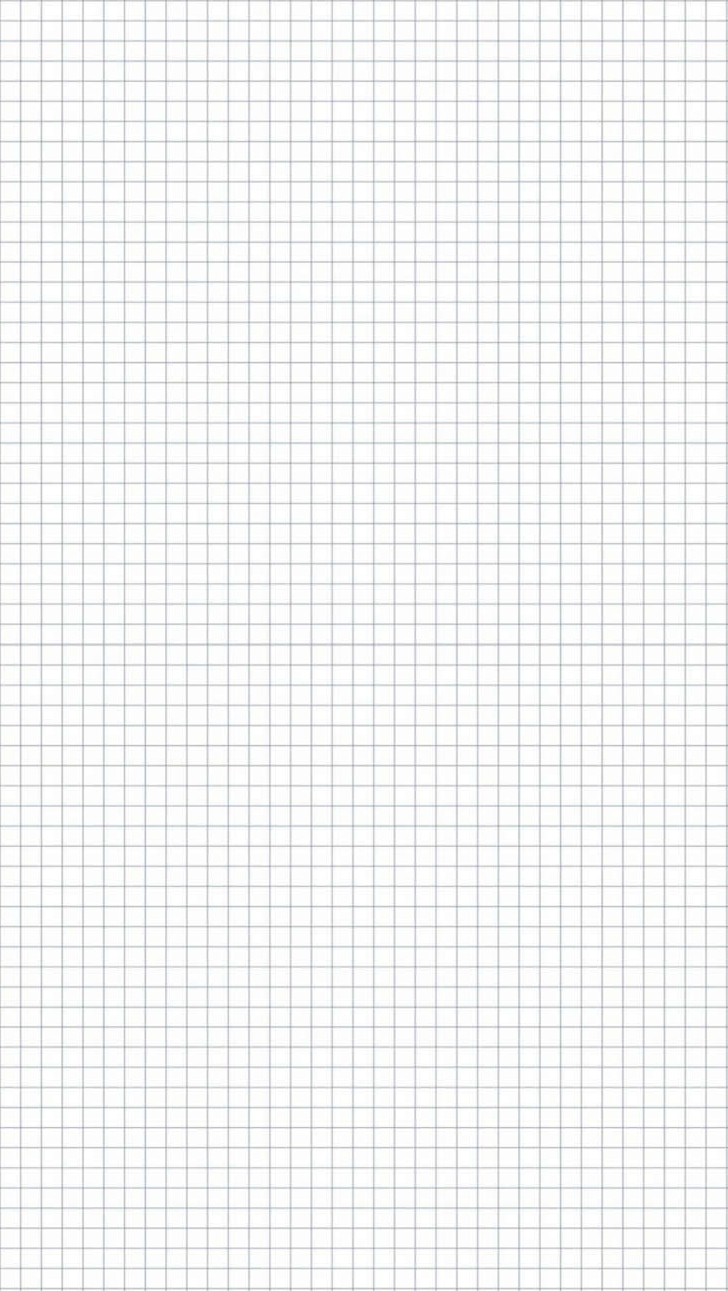
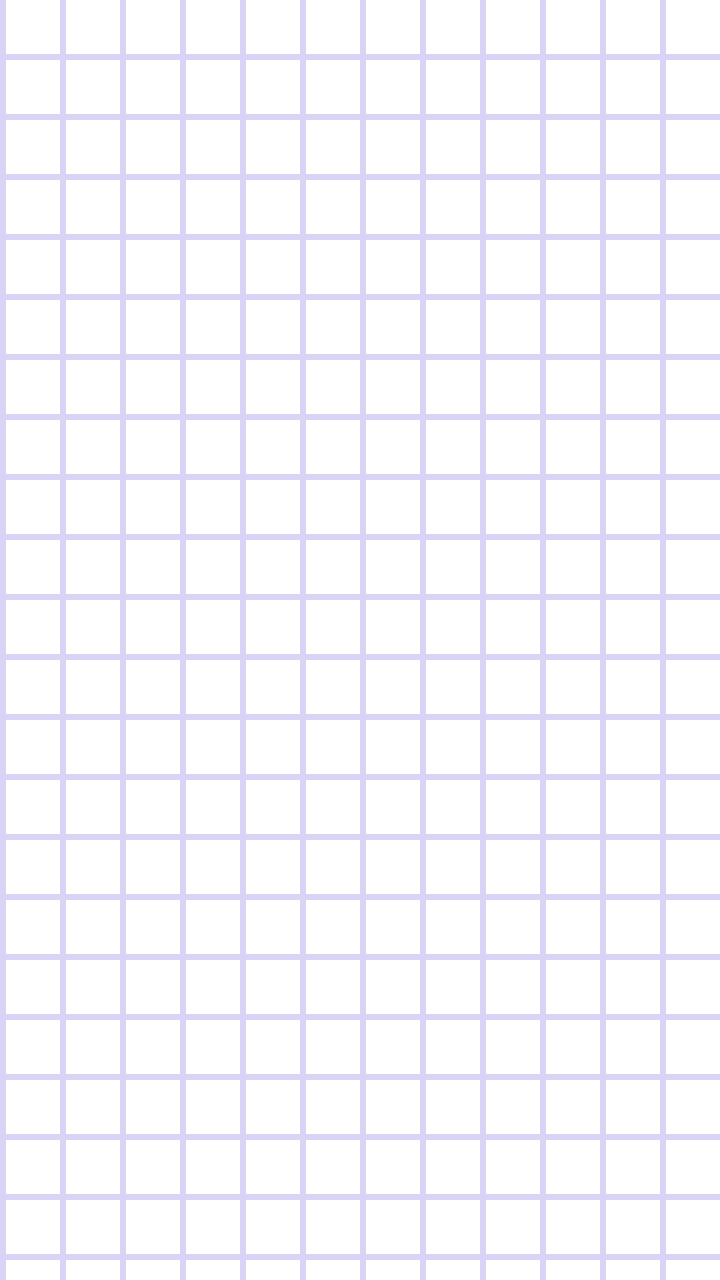
Menu prototype

diff --git a/attt/src/main/java/com/petrsu/attt/MainMenuScreen.java b/attt/src/main/java/com/petrsu/attt/MainMenuScreen.java
@@ -13,7 +13,20 @@ import java.util.List;
  * Created by lexer on 7/21/13.
  */
 public class MainMenuScreen extends Screen {
-
+    private static int SOUND_X = 0;
+    private static int SOUND_Y = 1135;
+    private static int SOUND_WIDTH = 128;
+    private static int SOUND_HEIGHT = 145;
+    private static int LOGO_X = 62;
+    private static int LOGO_Y = 55;
+    private static int LOGO_WIDTH = 603;
+    private static int LOGO_HEIGHT = 366;
+    private static int BUTTONS_X = 121;
+    private static int BUTTON1_Y = 536;
+    private static int BUTTON2_Y = 715;
+    private static int BUTTON3_Y = 895;
+    private static int BUTTONS_WIDTH = 485;
+    private static int BUTTONS_HEIGHT = 125;
     public MainMenuScreen(Game game) {
         super(game);
     }
@@ -24,23 +37,58 @@ public class MainMenuScreen extends Screen {
         List<TouchEvent> touchEvents = game.getInput().getTouchEvents();
         game.getInput().getKeyEvents();
 
-        g.clear(Color.WHITE);
-        Grid grid = new Grid(g, Settings.gridColor);
-        grid.draw();
-
         int len = touchEvents.size();
 
         for (int i = 0; i < len; i++) {
             TouchEvent event = touchEvents.get(i);
             if (event.type == TouchEvent.TOUCH_UP) {
-                Assets.click.play(1);
+               if (inBounds(event, SOUND_X, SOUND_Y, SOUND_WIDTH, SOUND_HEIGHT)) {
+                   Settings.soundEnabled = !Settings.soundEnabled;
+                   if(Settings.soundEnabled) {
+                       Assets.click.play(0.5f);
+                   }
+               }
+               if (inBounds(event, BUTTONS_X, BUTTON1_Y, BUTTONS_WIDTH, BUTTONS_HEIGHT)) {
+                   if (Settings.soundEnabled) {
+                       Assets.click.play(0.5f);
+                   }
+               }
+               if (inBounds(event, BUTTONS_X, BUTTON2_Y, BUTTONS_WIDTH, BUTTONS_HEIGHT)) {
+                   if (Settings.soundEnabled) {
+                       Assets.click.play(0.5f);
+                   }
+               }
+               if (inBounds(event, BUTTONS_X, BUTTON3_Y, BUTTONS_WIDTH, BUTTONS_HEIGHT)) {
+                   if (Settings.soundEnabled) {
+                       Assets.click.play(0.5f);
+                   }
+               }
             }
         }
+    }
+
+    private boolean inBounds(TouchEvent event, int x, int y, int width, int height) {
+        if(event.x > x && event.x < x + width - 1 &&
+                event.y > y && event.y < y + height - 1)
+            return true;
+        else
+            return false;
     }
 
     @Override
     public void present(float deltaTime) {
         Graphics g = game.getGraphics();
+        g.drawPixmap(Assets.background, 0, 0);
+        if (Settings.soundEnabled) {
+            g.drawRect(SOUND_X, SOUND_Y, SOUND_WIDTH, SOUND_HEIGHT, Color.GREEN);
+        } else {
+            g.drawRect(SOUND_X, SOUND_Y, SOUND_WIDTH, SOUND_HEIGHT, Color.RED);
+        }
+
+        g.drawRect(LOGO_X, LOGO_Y, LOGO_WIDTH, LOGO_HEIGHT, Color.GREEN);
+        g.drawRect(BUTTONS_X, BUTTON1_Y, BUTTONS_WIDTH, BUTTONS_HEIGHT, Color.RED);
+        g.drawRect(BUTTONS_X, BUTTON2_Y, BUTTONS_WIDTH, BUTTONS_HEIGHT, Color.RED);
+        g.drawRect(BUTTONS_X, BUTTON3_Y, BUTTONS_WIDTH, BUTTONS_HEIGHT, Color.RED);
     }
 
     @Override
@@ -57,4 +105,5 @@ public class MainMenuScreen extends Screen {
     public void dispose() {
 
     }
+
 }

diff --git a/attt/src/main/java/com/petrsu/attt/Settings.java b/attt/src/main/java/com/petrsu/attt/Settings.java
@@ -1,8 +1,5 @@
 package com.petrsu.attt;
 
-import android.graphics.Color;
-import android.util.Log;
-
 import com.badlogic.androidgames.framework.FileIO;
 
 import java.io.BufferedReader;
@@ -17,15 +14,12 @@ import java.io.OutputStreamWriter;
 public class Settings {
     public static final String FILENAME = ".attt";
     public static boolean soundEnabled = true;
-    public static int gridColor = Color.parseColor("#1a4780");
 
     public static void load(FileIO files) {
         BufferedReader in = null;
         try {
             in = new BufferedReader(new InputStreamReader(files.readFile(FILENAME)));
             soundEnabled = Boolean.parseBoolean(in.readLine());
-            Log.d("TEST", Integer.toString(gridColor));
-            gridColor = Integer.parseInt(in.readLine());
         } catch (IOException e) {
             //Do we have default values? Yes? OK! No? Make it!
         } catch (NumberFormatException e) {
@@ -44,7 +38,6 @@ public class Settings {
         try {
             out = new BufferedWriter(new OutputStreamWriter(files.writeFile(FILENAME)));
             out.write(Boolean.toString(soundEnabled));
-            out.write(Integer.toString(gridColor));
         } catch (IOException e) {
         } finally {
             try {

diff --git a/attt/src/main/java/com/badlogic/androidgames/framework/impl/AndroidGame.java b/attt/src/main/java/com/badlogic/androidgames/framework/impl/AndroidGame.java
@@ -38,8 +38,8 @@ public abstract class AndroidGame extends Activity implements Game {
                 WindowManager.LayoutParams.FLAG_FULLSCREEN);
 
         boolean isLandscape = getResources().getConfiguration().orientation == Configuration.ORIENTATION_LANDSCAPE;
-        int frameBufferWidth = isLandscape ? 480 : 320;
-        int frameBufferHeight = isLandscape ? 320 : 480;
+        int frameBufferWidth = isLandscape ? 1280 : 720;
+        int frameBufferHeight = isLandscape ? 720 : 1280;
         Bitmap frameBuffer = Bitmap.createBitmap(frameBufferWidth,
                 frameBufferHeight, Config.RGB_565);
         

diff --git a/attt/src/main/java/com/badlogic/androidgames/framework/impl/AndroidGraphics.java b/attt/src/main/java/com/badlogic/androidgames/framework/impl/AndroidGraphics.java
@@ -124,8 +124,7 @@ public class AndroidGraphics implements Graphics {
 
     @Override
     public void drawText(String text, int x, int y, Typeface font,  float size, int color) {
-        paint.setFlags(Paint.DEV_KERN_TEXT_FLAG
-                | Paint.ANTI_ALIAS_FLAG);
+        paint.setAntiAlias(true);
         paint.setColor(color);
         paint.setTextSize(size);
         paint.setTypeface(font);
